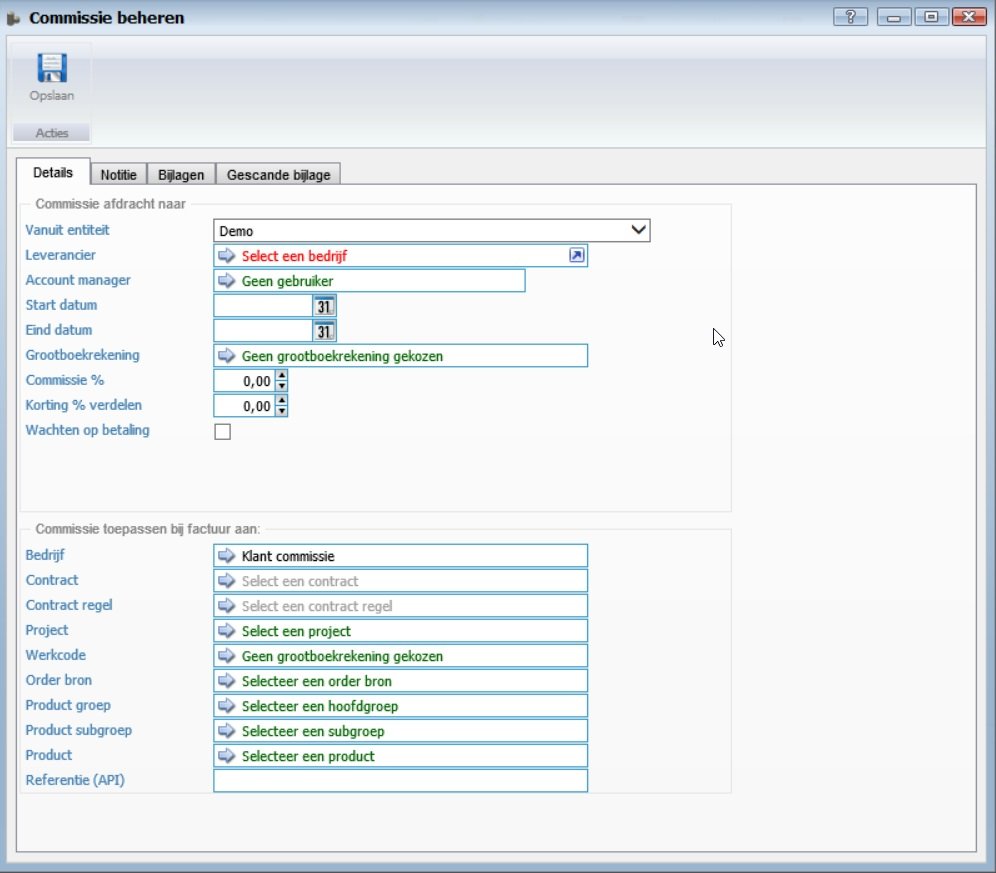
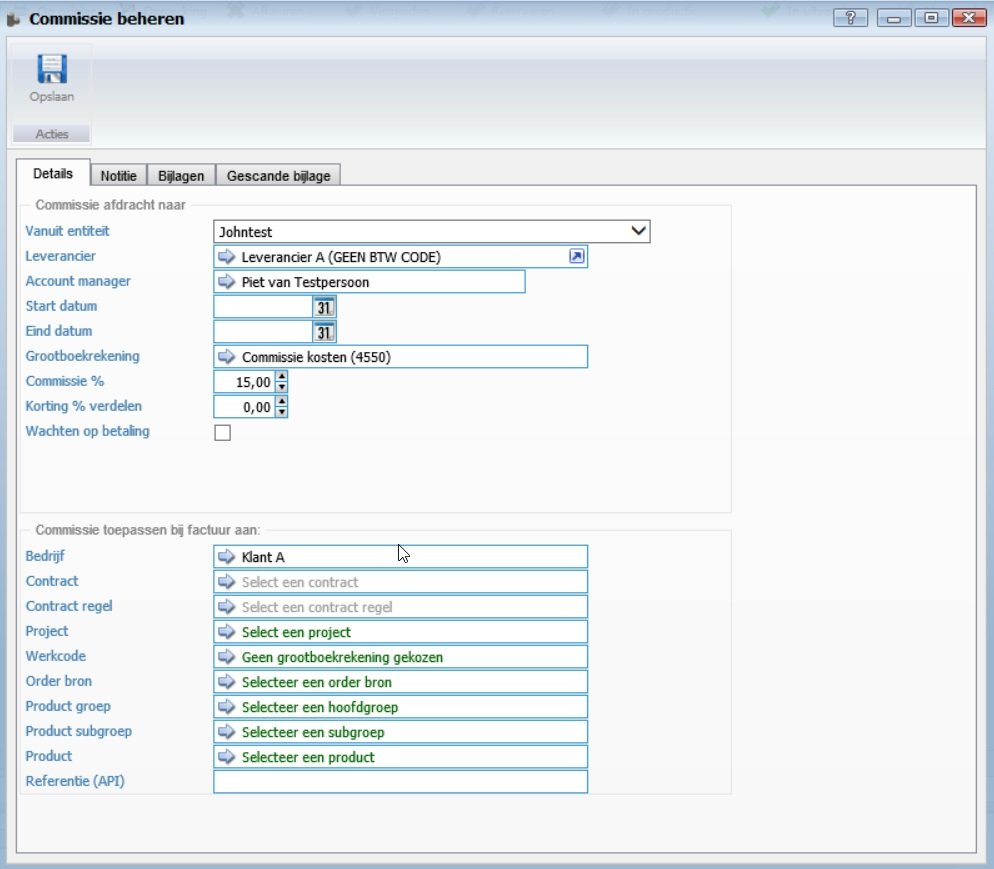
commissie

diff --git a/pages/handleiding/modules/commissie.md b/pages/handleiding/modules/commissie.md
@@ -3,7 +3,7 @@
 		<title>Commissie</title>
 	</page>
 	<menu>
-		<position>Handleiding / Modules / Commissie</position>
+		<position>Pages / Handleiding / Modules / Commissie</position>
 		<title>Commissie</title>
 	</menu>
 </properties>
@@ -17,17 +17,17 @@ Als bedrijf kan je externe bedrijven en/of personen inzetten om arbeid te verric
 
 Als je accountmanagers wilt gebruiken dan moeten er rechten worden aangepast. Dit kan bij "Beveiligingsgroepen" of bij "Gebruikers wijzigen". De rechten die dan aangezet moeten worden staan in onderstaand plaatje. 
  
-![](pages/handleiding/modules/images/rechten-accountmanager.jpg)
+![](images/rechten-accountmanager.jpg)
 
 **Koppeling maken met een accountmanager**
 
 Iedere gebruiker die aangemaakt is in het systeem kan je als accountmanager selecteren. Dit kan op 2 plaatsen namelijk bij klanten en bij personen (particulieren)
 
 Klanten:
-![](pages/handleiding/modules/images/klanten-accountmanager.jpg)
+![](images/klanten-accountmanager.jpg)
 
 Personen:
-![](pages/handleiding/modules/images/personen-accountmanager.jpg) 
+![](images/personen-accountmanager.jpg) 
 
 **Commissie toevoegen**
 
@@ -37,7 +37,7 @@ Klantkaart
 
 Ga via het menu naar "Klanten", selecteer de klant en ga naar het tabblad "Commissies". Kies dan voor "Toevoegen", onderstaand scherm verschijnt:
 
-![](pages/handleiding/modules/images/commissie-toevoegen-klant.jpg) 
+![](images/commissie-toevoegen-klant.jpg) 
 
 In dit scherm zijn "Leverancier" en "Grootboekrekening" verplichte velden. "Commissie %" is niet verplicht, maar dit is wordt wel altijd gevuld. De overige velden zijn ervoor om op specifiek niveau de commissie te laten berekenen.
 
@@ -64,7 +64,7 @@ Commissie beheer
 
 Ga via het menu naar "Commissies", naar "commissies beheren". Kies dan voor "Toevoegen", onderstaand scherm verschijnt:
   
-![](pages/handleiding/modules/images/commissie-toevoegen-beheer.jpg) 
+![](images/commissie-toevoegen-klant.jpg) 
 
 **Functionaliteit**
 
@@ -80,6 +80,23 @@ Er wordt een order ingevoerd voor Klant A, met 2 producten van 100 euro per prod
 - Order goedkeuren
 - Order afhandelen 
 - Order factureren
+
+
+![](images/commissie-order.jpg) 
+
+
+![](images/commissie-factuur.jpg)
+
+
+![](images/commissie-nieuwe-commissie-afdracht.jpg)
+
+
+![](images/commissie-afromen-datum.jpg)
+
+
+![](images/commissie-te-verzenden-naar-onderaannemer.jpg)
+
+
 
 
 
